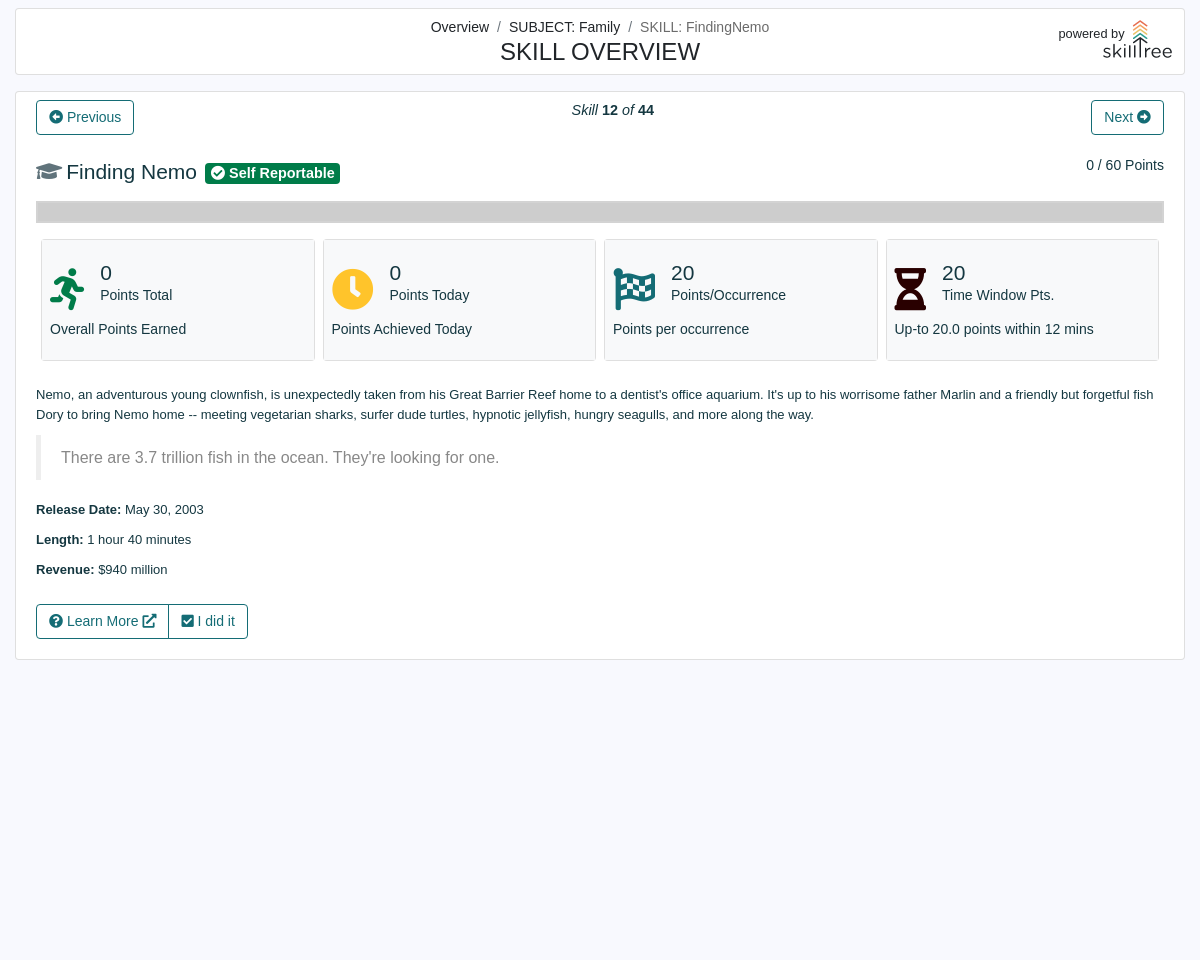
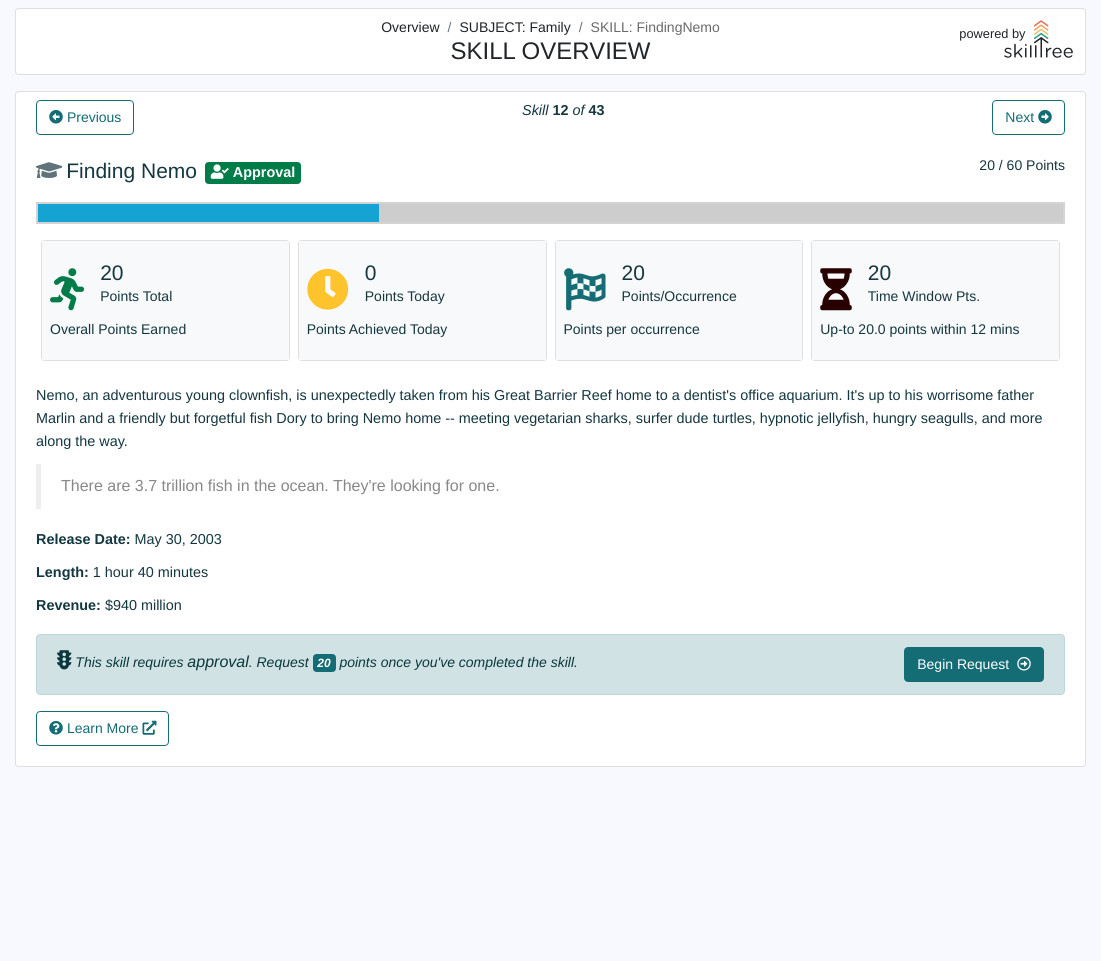
#243: updated all the outdated references to the "I Did it" button

diff --git a/cypress/integration/progress-and-ranking.js b/cypress/integration/progress-and-ranking.js
@@ -66,11 +66,12 @@ context('Generate Progress and Ranking Screenshots', () => {
   });
 
   it('Gen Self Report Skill', () => {
+    cy.viewport(1100, 1000);
     cy.visit('/progress-and-rankings/projects/movies?classicSkillsDisplay=true');
     cy.clientDisplay(true).contains('My Level');
     cy.cdClickSubj(3, 'Family');
     cy.clientDisplay().contains('Finding Nemo').click();
-    cy.clientDisplay().find('[data-cy="selfReportBtn"]');
+    cy.clientDisplay().find('[data-cy="requestApprovalBtn"]');
     cy.snap('client-display-skills-selfReport', 'iframe');
   })
 

diff --git a/docs/dashboard/user-guide/self-reporting.md b/docs/dashboard/user-guide/self-reporting.md
@@ -47,7 +47,8 @@ earn the skill and its points
 
 ## Skills Display
 
-Once Self Reporting is enabled for a skill, users will see an ``I did it`` button on the Skills Display that will allow them to report the completion of that skill 
+Once Self Reporting is enabled for a skill, users will see a button on the Skills Display that will allow them to report the completion of that skill.
+Button's label will depend on the Self Reporting type, below is an example when the ``Approval Queue`` type was configured.
 
 ![Skills with Self Reporting](../../screenshots/progress-and-ranking/client-display-skills-selfReport.png)
 
@@ -62,7 +63,7 @@ Alternatively you can have only some skills configured with Self Reporting or no
 
 If a skill is configured with Self Reporting type of the ``Approval Queue`` then points will not be awarded right away but rather go
 through the simple approval workflow:
-1. User click ``I did it`` button and requests points
+1. User clicks ``Begin Request`` button and requests points
 1. Request appears on the project's Self Report page (see the Screenshot below)
 1. Project administrator approves or reject requests
 

diff --git a/docs/dashboard/user-guide/skills.md b/docs/dashboard/user-guide/skills.md
@@ -219,7 +219,9 @@ When a self-reported skill occurrence is reported to the reused copy then the re
 From there on the flow is identical to any skill occurrence that is being reported to the original skill and for every reused instance the occurrence is queued up to be propagated
 to that reused skills. The queue is handled in an asynchronous manner so there is a small delay before the skill occurrence are reflected in the reused skills.
 
-The Self-reporting "I did it" button is visualized for each reused skill in the Skills Display and Progress and Rankings views.
+The Self-reporting `request points` button is visualized for each reused skill in the ``Skills Display`` and Progress and Rankings views.
+Reused skills support all the self-reporting types (`Honor System`, `Approval Queue`, `Quiz`, and `Survey`),
+to learn more please visit the [Self Reporting](/dashboard/user-guide/self-reporting.html) section.
 
 ### Other Considerations
 - Skills with dependencies can NOT be reused. Reused skills can NOT be added as a dependency.

diff --git a/docs/dashboard/user-guide/skills-catalog.md b/docs/dashboard/user-guide/skills-catalog.md
@@ -123,7 +123,9 @@ The one exception to this restriction is self-reported skills. Self-reported ski
 When a self-reported skill occurrence is reported to the imported copy then the request is simply routed to the originally-declared skill.
 From there on the flow is identical to any skill occurrence that is being reported to the original skill.
 
-The Self-reporting ``I did it`` button is visualized for each imported skill in the ``Skills Display`` and Progress and Rankings views. 
+The Self-reporting `request points` button is visualized for each imported skill in the ``Skills Display`` and Progress and Rankings views.
+Skills Catalog supports all the self-reporting types (`Honor System`, `Approval Queue`, `Quiz`, and `Survey`), 
+to learn more please visit the [Self Reporting](/dashboard/user-guide/self-reporting.html) section.
 
 ### Catalog and Skills Dependencies
 
